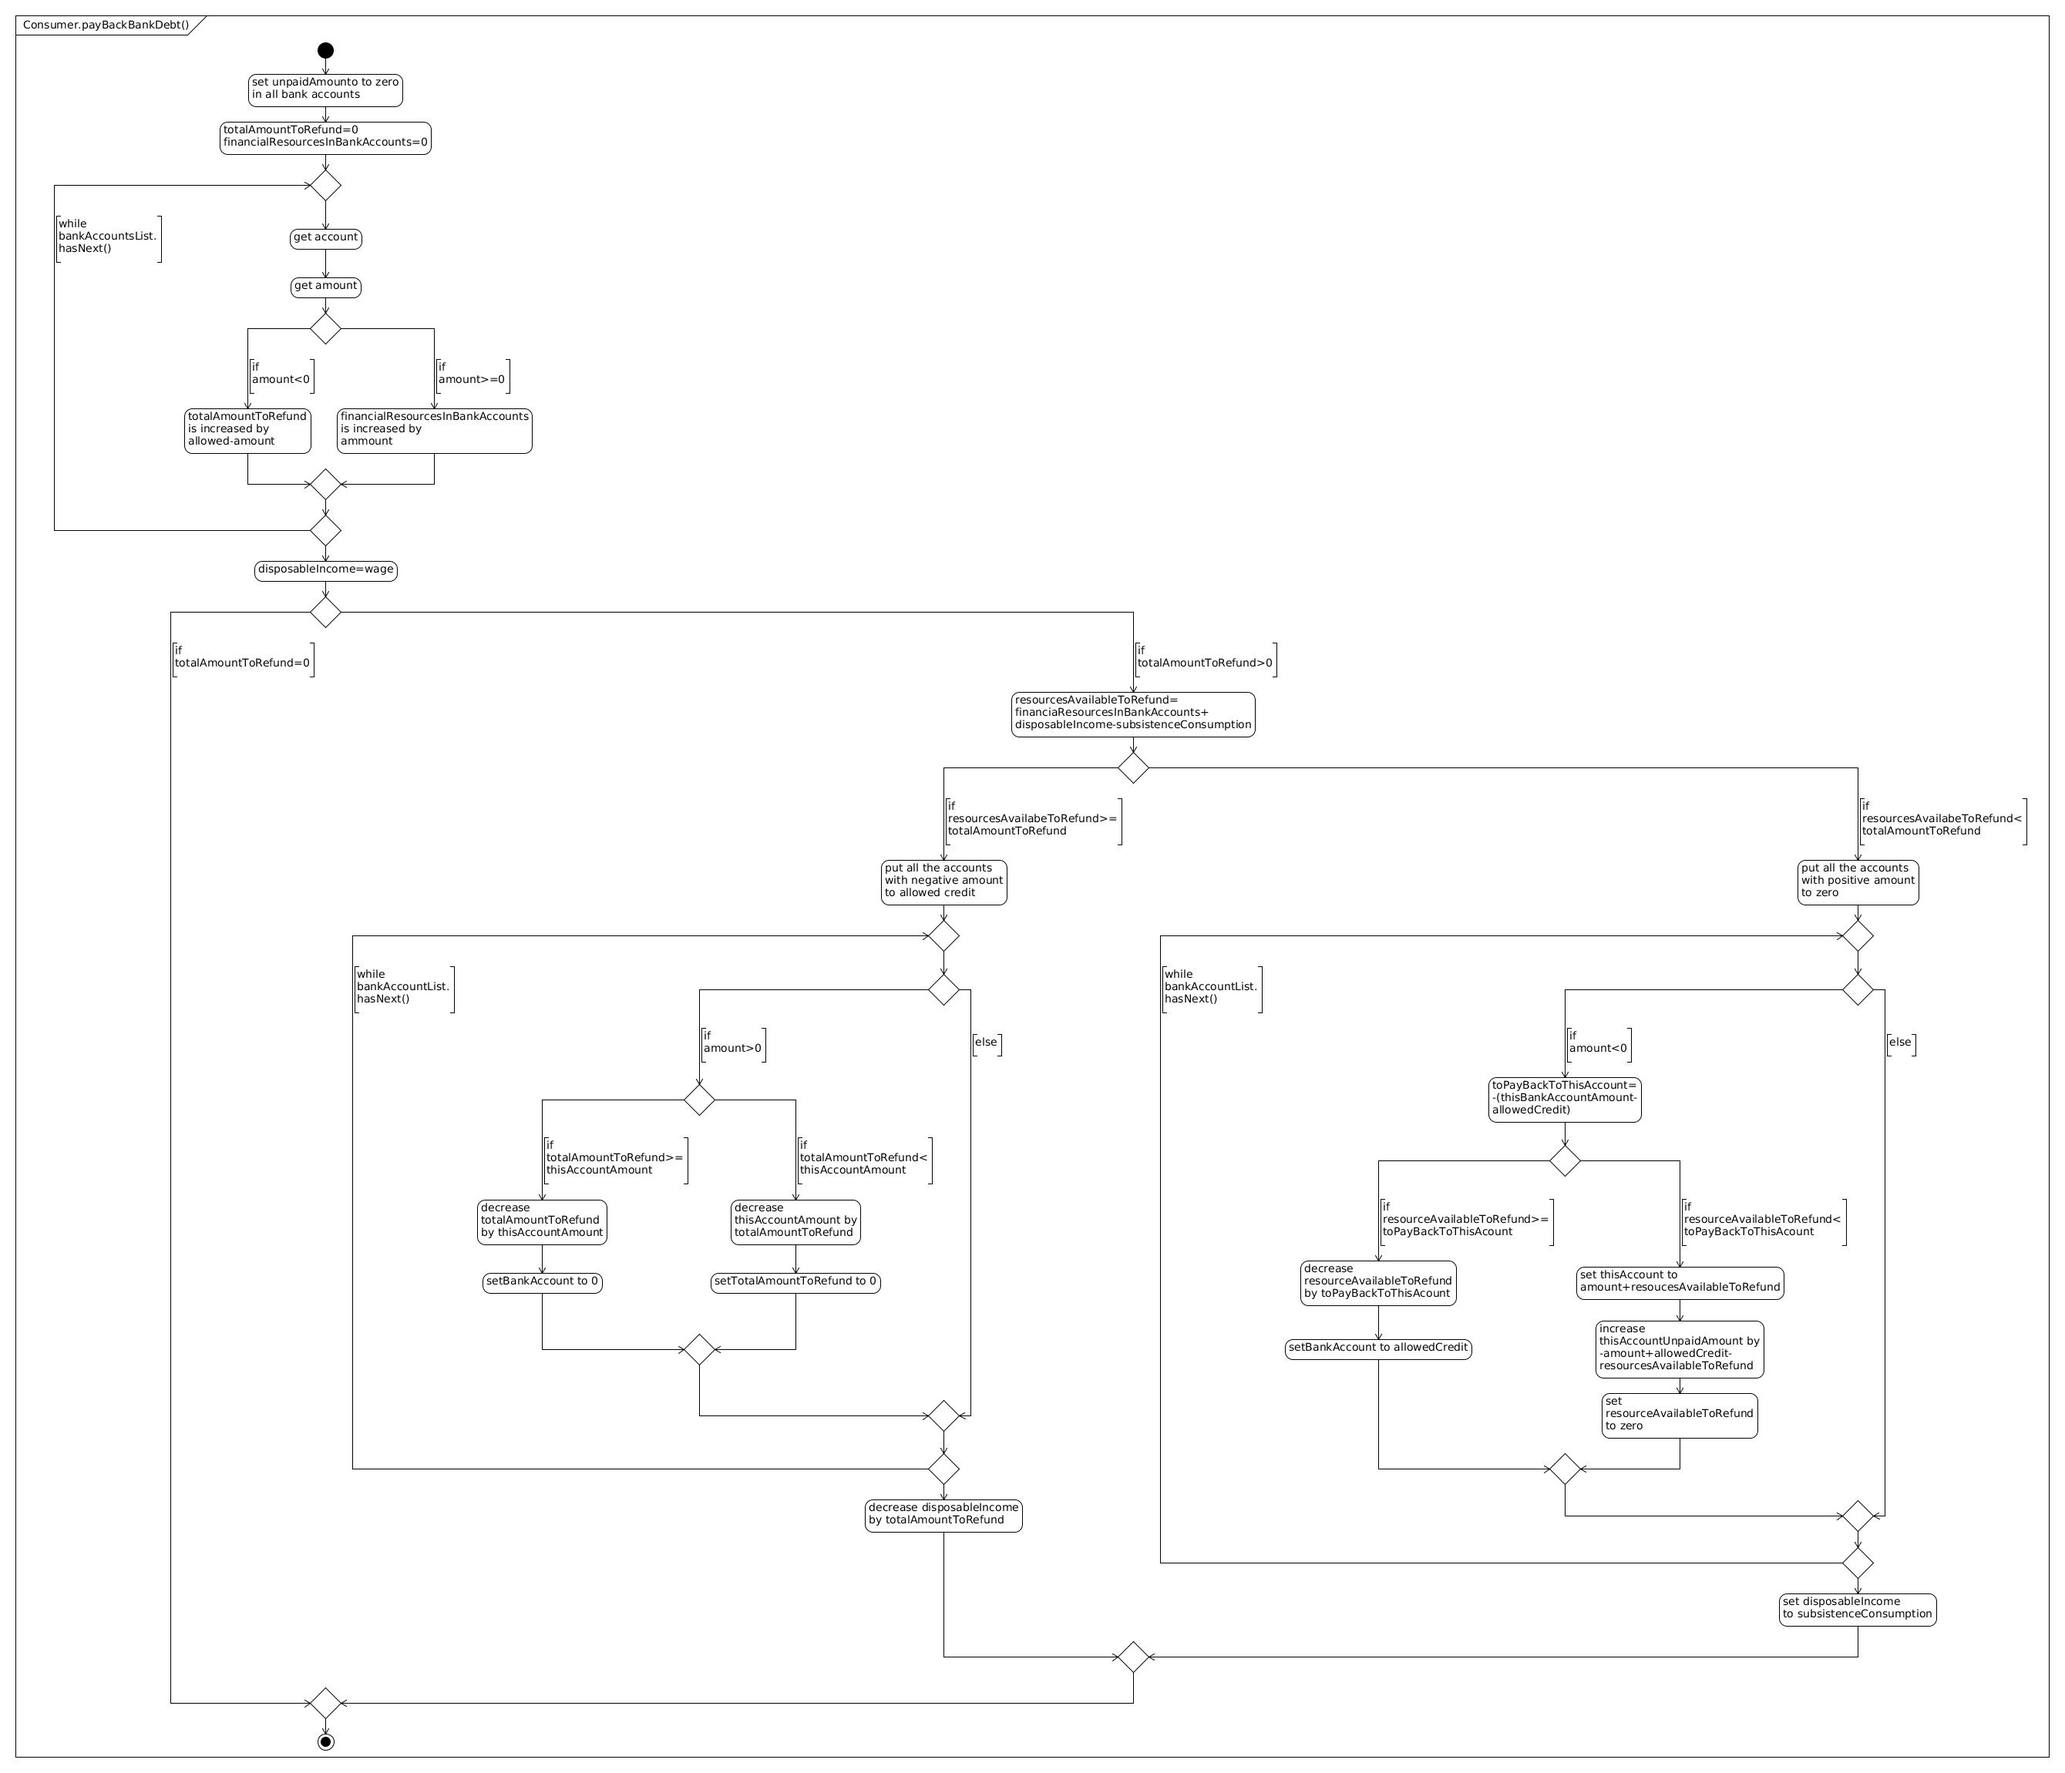
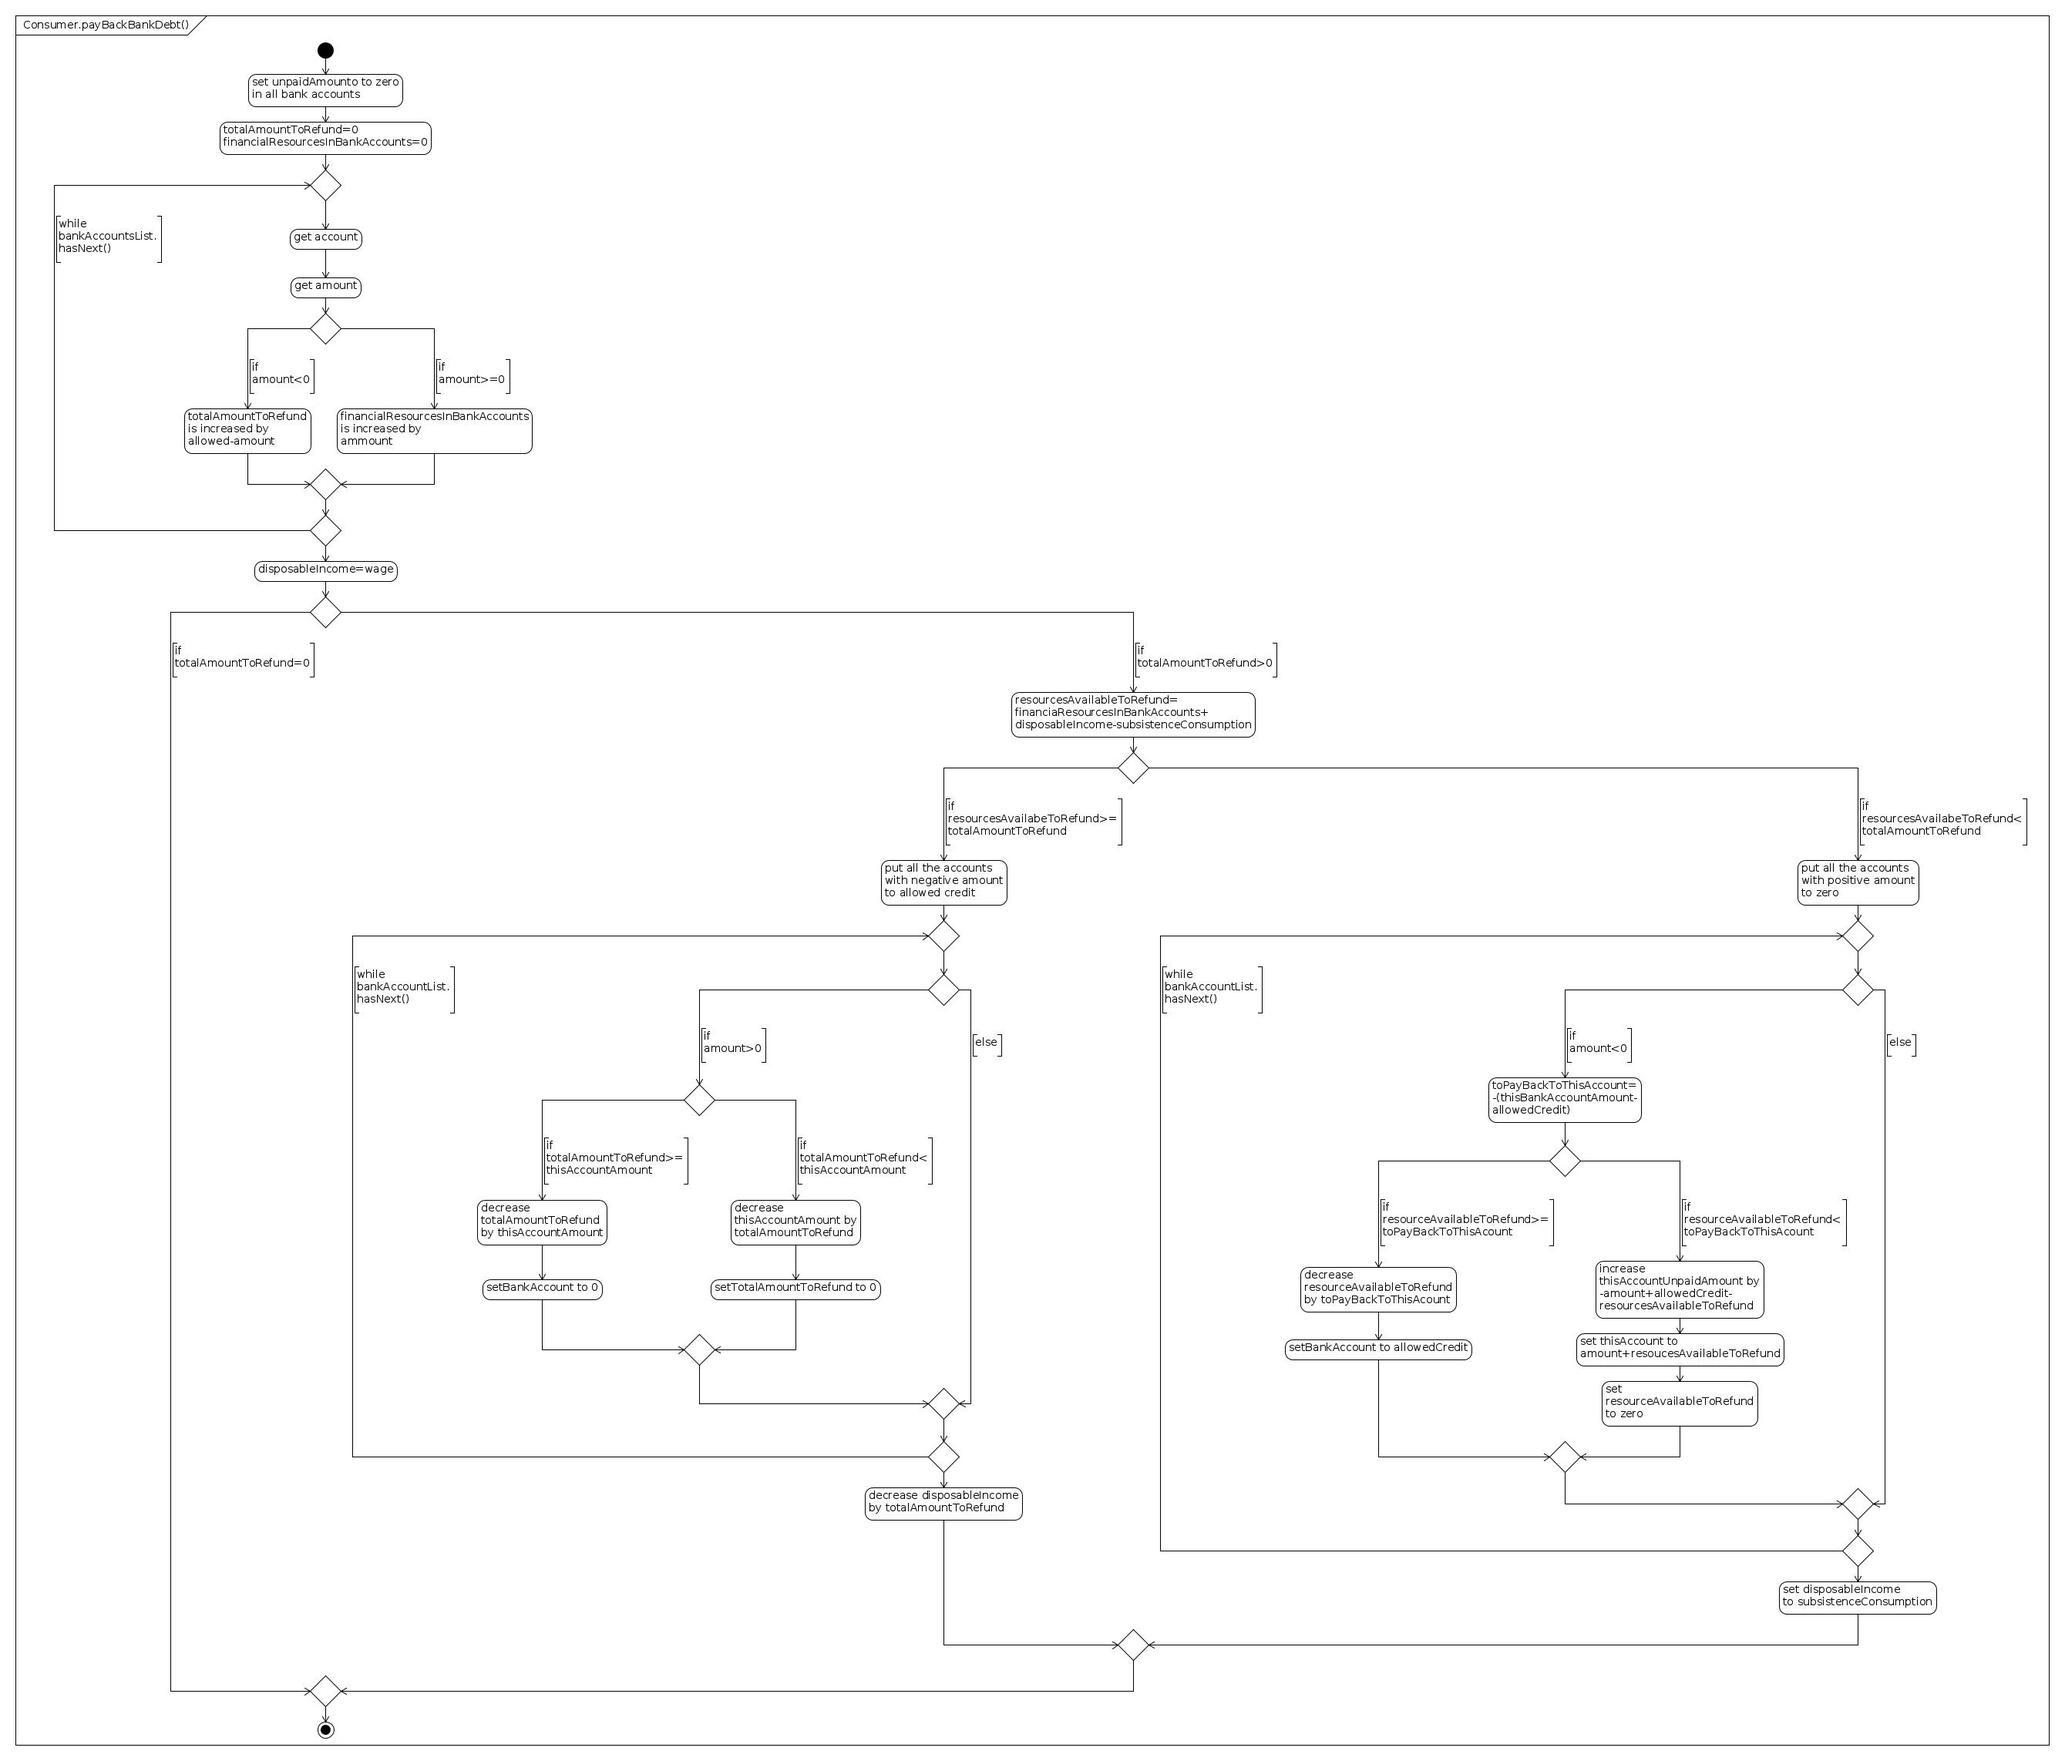
controlli e correzioni riguardanti la contabilità famiglie-banche e imprese-banche

diff --git a/documentation/index.html b/documentation/index.html
@@ -7,19 +7,14 @@
 
 <table border=1>
 <tr>
-	<td><b>Office for statistics</b>:</td> 
-	<td><a href="computeVariables.html">conputeVariables</a></td>
-	<td> (workers productivities, product diffusion indicator,... )</td>
-</tr>
-<tr>
 	<td><b>Firms</b>: </td>
 	<td><a href="makeProduction.html"> makeProduction</a></td>
 	<td>Firms make production. </td>
 </tr>
 <tr>
-	<td><b>OfficeForStatistics</b> </td>
-	<td><a href="performFirmsExit.html">performFirmsExit</a> </td>
-	<td>performConsumersExit </td>
+	<td><b>Office for statistics</b>:</td> 
+	<td><a href="computeVariables.html">conputeVariables</a></td>
+	<td> (workers productivities, product diffusion indicator,... )</td>
 </tr>
 <tr>
 	<td><b>Firms</b>: </td>
@@ -95,6 +90,11 @@
 	<td><b>Firms</b> </td>
 	<td><a href="computeEconomicResultAndCapitalDepreciation.html">computeEconomicResultAndCapitalDepreciation</a> </td>
 	<td>compute cashOnHand as the difference of production an wages. </td>
+</tr>
+<tr>
+	<td><b>OfficeForStatistics</b> </td>
+	<td><a href="performFirmsExit.html">performFirmsExit</a> </td>
+	<td>performConsumersExit </td>
 </tr>
 <tr>
 	<td><b>Banks</b> </td>

diff --git a/src/sfcabm/OfficeForStatistics.java b/src/sfcabm/OfficeForStatistics.java
@@ -517,13 +517,6 @@ public void loadAgents(){
 //			System.out.println("     Aggregate demand "+aggregateDemand+" aggregate production "+aggregateProduction);
 		}
 
-		if(Context.saveMacroData){
-			try{
-				macroDataWriter.append(""+aggregateDemand+";"+aggregateInvestments+";"+aggregateProduction+";"+aggregateLoans+";"+aggregateDeposits+";"+numberOfFirms+";"+numberOfConsumers+";"+numberOfWorkers+";"+numberOfStudents+";");
-				macroDataWriter.flush();
-			}
-			catch(IOException e) {System.out.println("IOException");}
-		}
 
 
 	}
@@ -702,13 +695,6 @@ public void loadAgents(){
 			}
 		}
 		numberOfRetirements=consumersToRemoveList.size();
-		if(Context.saveMacroData){
-			try{
-			macroDataWriter.append(""+numberOfRetirements+";"+numberOfFirmExits+";"+(-aggregateHouseholdDesiredChangeInCredit)+";"+(-aggregateHouseholdAllowedChangeInCredit)+"\n");
-			macroDataWriter.flush();
-			}
-			catch(IOException e) {System.out.println("IOException");}
-		}
 
 		// remove
 		for(int i=0;i<consumersToRemoveList.size();i++){
@@ -1019,13 +1005,17 @@ System.out.println("     number of firms "+firmsList.size());
 		scheduleParameters=ScheduleParameters.createRepeating(1,1,9.0);
 		Context.schedule.schedule(scheduleParameters,this,"setupNewFirmsToComputeProductAttractiveness");
 
-		if(Context.verboseFlag){
-			scheduleParameters=ScheduleParameters.createRepeating(1,1,8.5);
-			Context.schedule.schedule(scheduleParameters,this,"scheduleEndOfSimulationStepMessage");
-		}
 		if(Context.saveMicroData){
-			scheduleParameters=ScheduleParameters.createRepeating(1,1,8.0);
+			scheduleParameters=ScheduleParameters.createRepeating(1,1,8.5);
 			Context.schedule.schedule(scheduleParameters,this,"scheduleSaveFirmsData");
+		}
+		if(Context.saveMacroData){
+			scheduleParameters=ScheduleParameters.createRepeating(1,1,8.0);
+			Context.schedule.schedule(scheduleParameters,this,"scheduleSaveMacroData");
+		}
+		if(Context.verboseFlag){
+			scheduleParameters=ScheduleParameters.createRepeating(1,1,7.5);
+			Context.schedule.schedule(scheduleParameters,this,"scheduleEndOfSimulationStepMessage");
 		}
 	}
 
@@ -1224,6 +1214,25 @@ public void scheduleSaveFirmsData(){
 		aFirm=(Firm)firmsList.get(0);
 		aFirm.innovate();
 	}
+
+	public void scheduleSaveMacroData(){
+	//compute aggregate loans and Deposits	
+		aggregateLoans=0;
+		aggregateDeposits=0;
+		for(int i=0;i<banksList.size();i++){
+			aBank=(Bank)banksList.get(i);
+			aBank.computeBalanceVariables();
+			aggregateLoans+=aBank.getLoans();
+			aggregateDeposits+=aBank.getDeposits();
+		}
+
+			try{
+				macroDataWriter.append(""+aggregateDemand+";"+aggregateInvestments+";"+aggregateProduction+";"+aggregateLoans+";"+aggregateDeposits+";"+numberOfFirms+";"+numberOfConsumers+";"+numberOfWorkers+";"+numberOfStudents+";"+numberOfRetirements+";"+numberOfFirmExits+";"+(-aggregateHouseholdDesiredChangeInCredit)+";"+(-aggregateHouseholdAllowedChangeInCredit)+"\n");
+				macroDataWriter.flush();
+			}
+			catch(IOException e) {System.out.println("IOException");}
+	}
+
 
 	public void scheduleEndOfSimulationStepMessage(){
 		System.out.println();

diff --git a/src/sfcabm/Consumer.java b/src/sfcabm/Consumer.java
@@ -297,8 +297,8 @@ public void stepState(){
 						}
 						else{
 //							aBankAccount.setDemandedCredit(aBankAccount.getAccount()+resourcesAvailableToRefund);
-							aBankAccount.setAccount(aBankAccount.getAccount()+resourcesAvailableToRefund);
 							aBankAccount.increaseUnpaidAmount(-aBankAccount.getAccount()+aBankAccount.getAllowedCredit()-resourcesAvailableToRefund);
+							aBankAccount.setAccount(aBankAccount.getAccount()+resourcesAvailableToRefund);
 							//							resourcesAvailableToRefund=0;
 							resourcesAvailableToRefund=0;
 						}
@@ -395,6 +395,10 @@ public void stepState(){
 			if(preferenceParameter<1){
 				preferenceParameter=1;
 			}
+		}
+
+		if(disposableIncome<=Context.subsistenceConsumption && preferenceParameter<1){
+			preferenceParameter=1;
 		}
 
 		disposableIncomeWhenDecidingDesiredConsumption=disposableIncome;
@@ -734,24 +738,25 @@ public void stepWorkerState() {
 			double additinalCreditAvailableInBestBankAccount=bestBankAccount.getAccount()-bestBankAccount.getAllowedCredit();
 			double resourcesAvailableForUnpaidAmounts;
 			if(unpaidAmountInBankAccounts>0){
-				if(consumption>0){
-					resourcesAvailableForUnpaidAmounts=additinalCreditAvailableInBestBankAccount-consumption;
-				}
-				else{
+				if(residualResourcesAfterConsuming>=0){
[1 lines of base64/hex data omitted]
 				}
+				else{
+					resourcesAvailableForUnpaidAmounts=additinalCreditAvailableInBestBankAccount-consumption;
+				}
+
 				double multiplier=1-resourcesAvailableForUnpaidAmounts/unpaidAmountInBankAccounts;
 				for(int i=0;i<bankAccountsList.size();i++){
 					aBankAccount=(BankAccount)bankAccountsList.get(i);
 					aBankAccount.setAccount(aBankAccount.getAccount()+aBankAccount.getUnpaidAmount()*(1-multiplier));
 					aBankAccount.setUnpaidAmount(aBankAccount.getUnpaidAmount()*multiplier);
+					if(aBankAccount.getUnpaidAmount()<0){
+						aBankAccount.setUnpaidAmount(0);
+					}
 				}
 			}
 			else{
-				if(consumption>0){
-					bestBankAccount.setAccount(bestBankAccount.getAccount()-consumption);
-				}
-				else{
+				if(residualResourcesAfterConsuming>=0){
 					worstBankAccount.setAccount(worstBankAccount.getAccount()+residualResourcesAfterConsuming);
 				}
 			}

diff --git a/src/sfcabm/Firm.java b/src/sfcabm/Firm.java
@@ -312,7 +312,7 @@ public class Firm {
 		aBankAccount=(BankAccount)bankAccountsList.get(positionOfBestBankAccount);
 
 		if(desiredProductionCapital>productionCapital){
-			creditToAsk=desiredProductionCapital-productionCapital-cashOnHand-financialResourcesInBankAccounts-unpaidAmountInBankAccounts;
+			creditToAsk=desiredProductionCapital-productionCapital-cashOnHand-financialResourcesInBankAccounts+unpaidAmountInBankAccounts;
 			creditToAskInSetDesiredCredit=creditToAsk;
 
 			if(creditToAsk>0){
@@ -324,10 +324,10 @@ public class Firm {
 			}
 		}
 		else{
-			if(cashOnHand+financialResourcesInBankAccounts<0){
-				creditToAsk=cashOnHand+financialResourcesInBankAccounts-unpaidAmountInBankAccounts;
+			if(cashOnHand+financialResourcesInBankAccounts<=0){
+				creditToAsk=-(cashOnHand+financialResourcesInBankAccounts)+unpaidAmountInBankAccounts;
 				creditToAskInSetDesiredCredit=creditToAsk;
-				bestBankAccount.setDesiredCredit(0.0,-creditToAsk);
+				bestBankAccount.setDesiredCredit(0.0,creditToAsk);
 			}
 			else{
 				creditToAsk=0;
@@ -755,6 +755,10 @@ System.out.println("      ----------------");
 						aBankAccount.setAccount(0);
 					}
 				}
+				if(cashOnHand>0){
+					cashOnHand=0;
+				}
+
 				for(int i=0;i<bankAccountsList.size();i++){
 					aBankAccount=(BankAccount)bankAccountsList.get(i);
 					amountOfThisBankAccount=aBankAccount.getAccount();

diff --git a/src/sfcabm/Context.java b/src/sfcabm/Context.java
@@ -41,11 +41,11 @@ public class Context implements ContextBuilder<Object> {
 	public static int parameterOfnumberOfWorkersToDetermineProductionCapitalInProductionFuncion=50;
 	public static int productionOfNewEnteringFirm=50;
 	public static double percentageOfDemandMissedBecauseOfGoodsMarketsInperfections=0.0;
-	public static double percentageOfCapitalDepreciation=0.05;
+	public static double percentageOfCapitalDepreciation=0.004;
 	public static double laborMarketStateToSetWage=0.5;
-	public static double interestRateOnDeposits=0.01;
-	public static double interestRateOnLoans=0.05;
-	public static double interestRateOnSubsidizedLoans=0.01;
+	public static double interestRateOnDeposits=0.001;
+	public static double interestRateOnLoans=0.004;
+	public static double interestRateOnSubsidizedLoans=0.001;
 	public static int unemploymentDole=10;
 	public static int subsistenceConsumption=10;
 	public static int costEdu=10;
